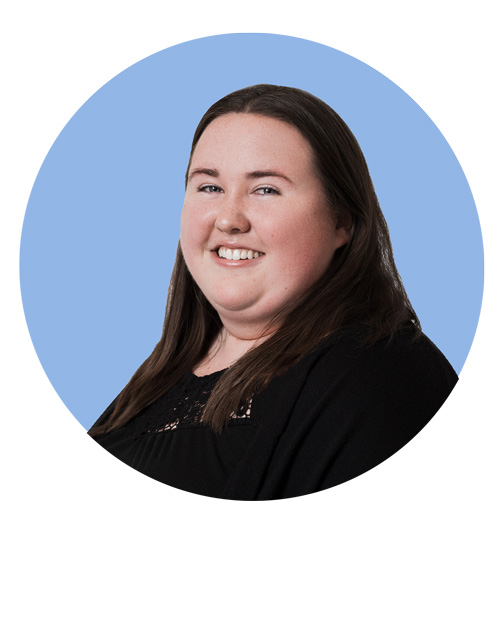
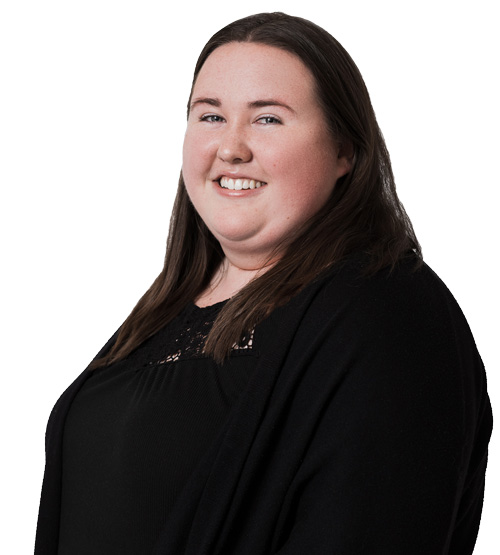
Replace profile image

diff --git a/_layouts/default.html b/_layouts/default.html
@@ -40,12 +40,10 @@
         <p class="milli pad-t-1-4">When everyone asked me what I wanted to be when I grew up, I had no idea until I went to New York City. It wasn't until I was staring at a billboard that I said to myself "I want to do this". Having this experience has inspired me to try anything new and to jump feet first into any  challenge.</p>
       </div>
     </div>
-    <div class="unit xs-1 s-1 m-1 l-1 xl-1 pad-b-1-2 text-center">
+    <div class="unit xs-1 s-1 m-1 l-1 xl-1 text-center">
       <img class="gutter-1-4 profile" src="{{site.baseurl}}/www/images/home-page/profile.jpg">
     </div>
   </div>
-
-
 
   <footer class id="data-author" itemprop="author" itemscope itemtype="http://schema.org/Person" role="contentinfo">
     <div class="pad-t-2 gutter">
